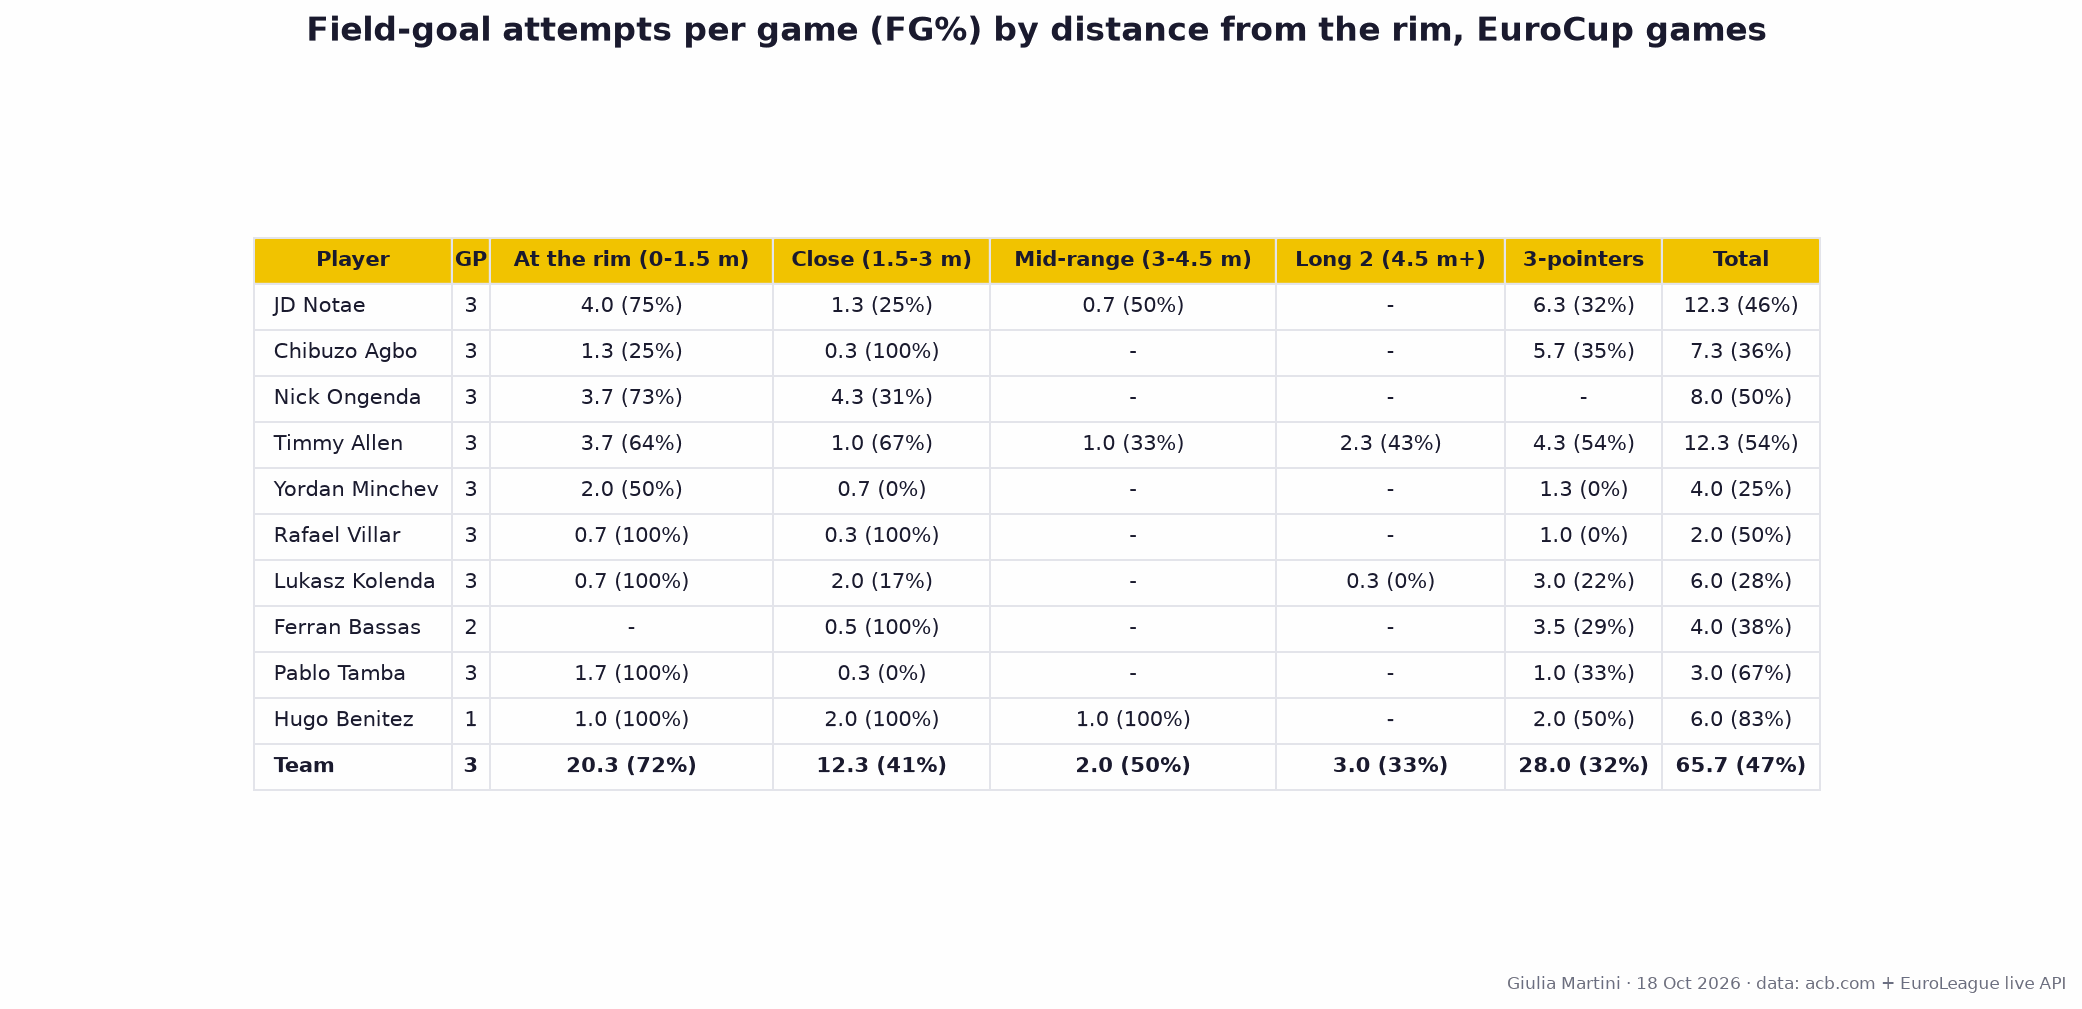
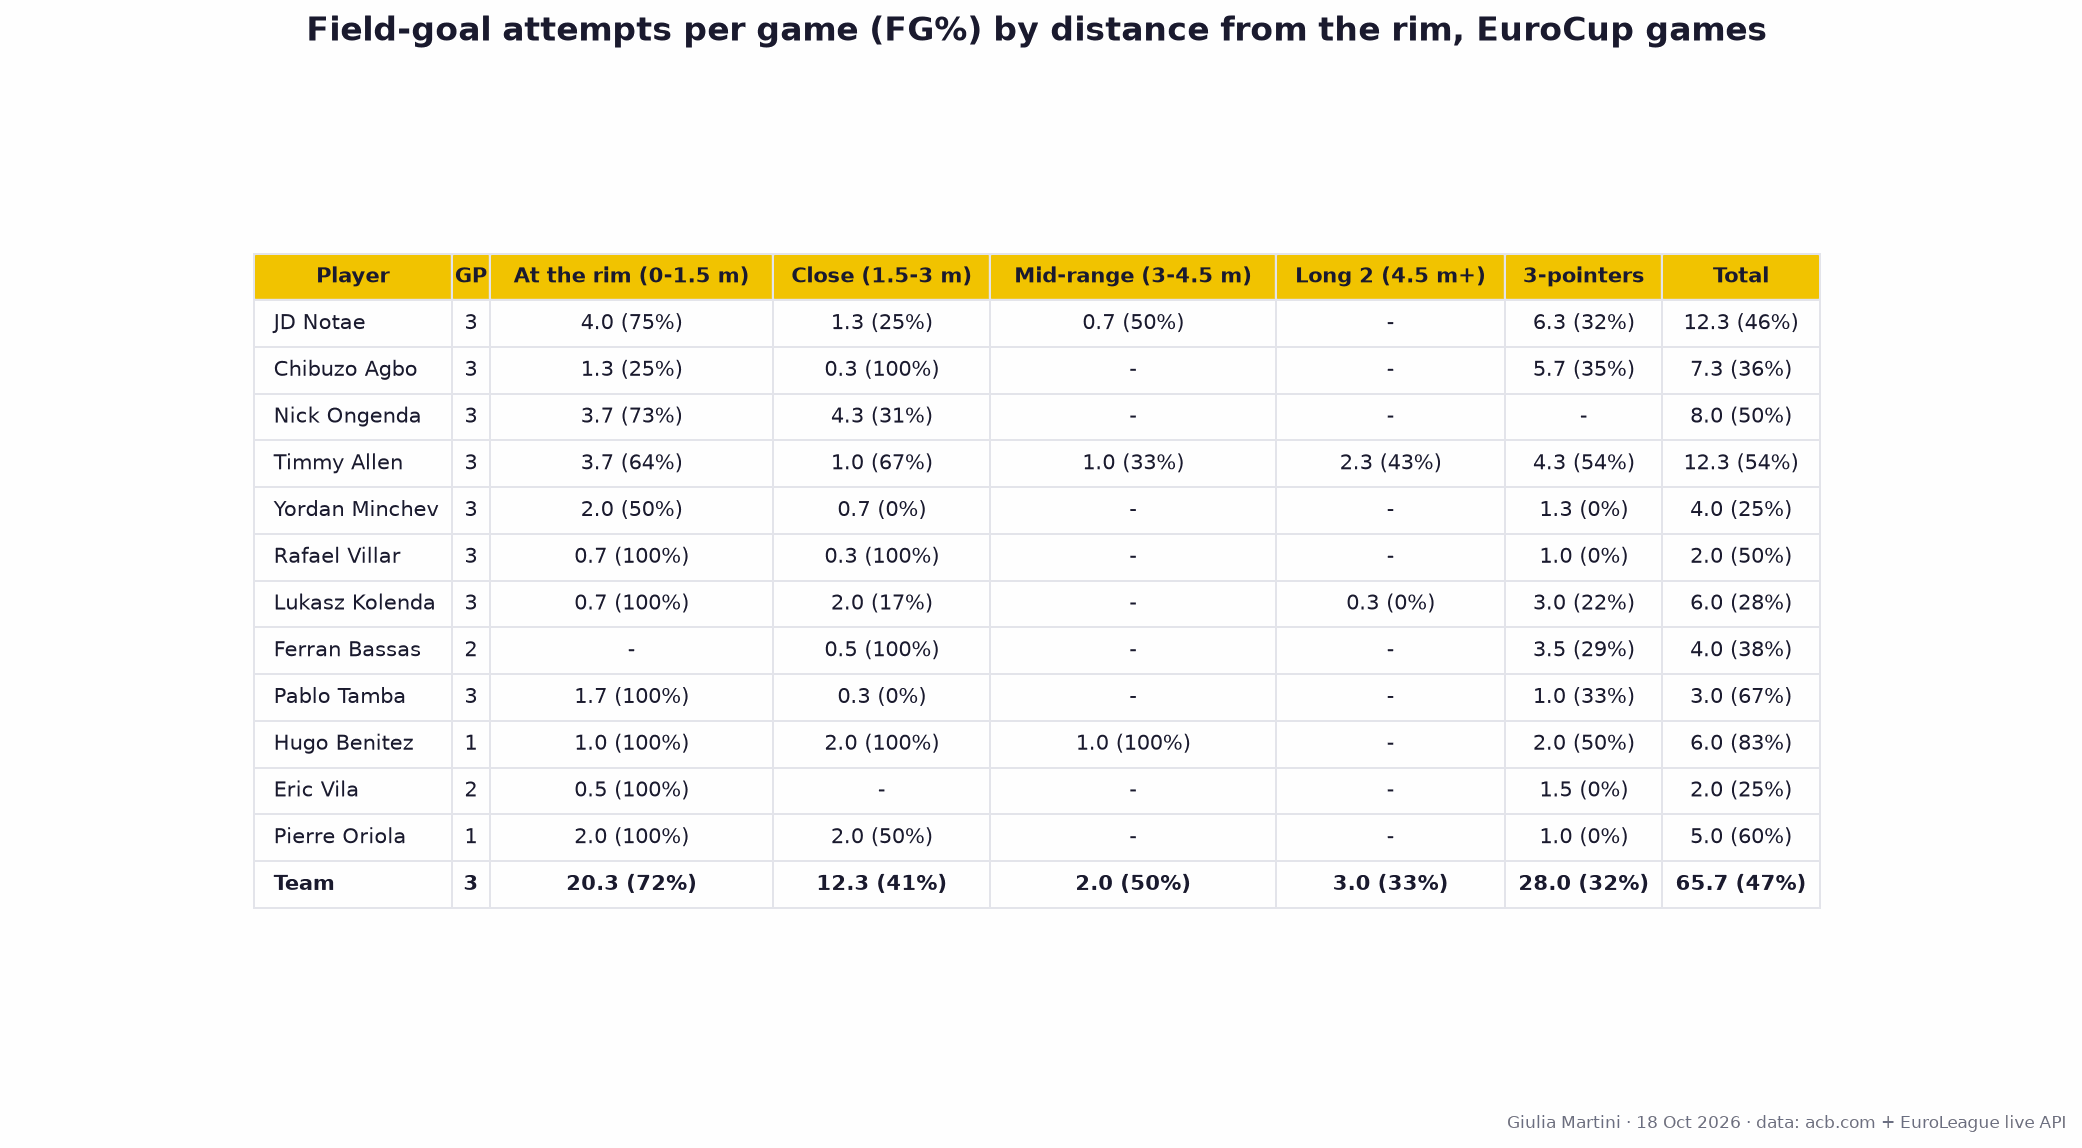
Manresa report: extend rotation table to top 12 by minutes (adds Vila and Oriola)

diff --git a/notebooks/manresa_report.py b/notebooks/manresa_report.py
@@ -24,7 +24,7 @@ from manresa_fetch import player_key
 
 ROOT = Path(__file__).resolve().parent.parent
 DATA = ROOT / "data" / "manresa"
-TOP_N = 10
+TOP_N = 12
 MIN_UNIT_SECS = 180
 ROLE_EN = {"Base": "PG", "Escolta": "SG", "Alero": "SF", "Ala-pívot": "PF", "Pívot": "C"}
 POS_EN = {"Guard": "G", "Forward": "F", "Center": "C"}
@@ -135,8 +135,8 @@ def fig_players(table: pd.DataFrame, out: Path) -> Path:
             cell._loc = "left"
             cell.set_text_props(ha="left")
     tab.auto_set_column_width(range(len(cols)))
-    fig.suptitle("Kids&Us Manresa: top 10 by minutes, Liga Endesa + EuroCup 2026/27", **SUP_KW)
-    path = out / "01_top10_players.png"
+    fig.suptitle(f"Kids&Us Manresa: top {TOP_N} by minutes, Liga Endesa + EuroCup 2026/27", **SUP_KW)
+    path = out / "01_top_players.png"
     save_fig(fig, path)
     plt.close(fig)
     return path
@@ -442,7 +442,7 @@ def extra_sections(starters: pd.DataFrame, assists: pd.DataFrame, matrix: pd.Dat
                    per_game: pd.DataFrame, ts: pd.DataFrame) -> list[str]:
     """README lines for starting fives, assist matrix, shot distances and shot charts."""
     L = ["## Starting fives and absences", "", "![starting fives](00_starting_fives.png)", "",
-         "Gold = starter (S, minutes), grey = bench minutes, red = rotation player (top 10 by minutes) "
+         "Gold = starter (S, minutes), grey = bench minutes, red = rotation player (top 12 by minutes) "
          "not on the game sheet (injury, rest or selection: the reason is not in the data).", "",
          "| Date | Comp | Opponent | H/A | Score | Starters | Out |", "|---|---|---|---|---|---|---|"]
     L += [f"| {r.date} | {r.comp} | {r.opponent} | {r.home} | {r.score} | {r.starters} | "
@@ -467,7 +467,7 @@ def extra_sections(starters: pd.DataFrame, assists: pd.DataFrame, matrix: pd.Dat
                  for n in dist.columns.get_level_values(0).unique()]
         L.append(f"| {label} | " + " | ".join(cells) + " |")
     L += ["", "### Attempts per game (FG%) by player", "", "![per game](05_shots_per_game.png)", "",
-          "Top 10 by minutes; attempts per EuroCup game played, FG% in brackets.", "",
+          "Top 12 by minutes; attempts per EuroCup game played, FG% in brackets.", "",
           "| Player | " + " | ".join(per_game.columns) + " |", "|---|" + "---|" * len(per_game.columns)]
     L += [f"| {name} | " + " | ".join(str(v) for v in row) + " |" for name, row in per_game.iterrows()]
     L += ["", "## True Shooting and PIR", "", "![ts pir](06_ts_pir.png)", "",
@@ -496,7 +496,7 @@ def write_readme(out: Path, title_date: str, games: pd.DataFrame, table: pd.Data
     L += ["", "## Results", "", "| Comp | Opponent | H/A | Score |", "|---|---|---|---|"]
     for r in games.itertuples():
         L.append(f"| {r.comp} | {r.opponent} | {'H' if r.home else 'A'} | {r.man_pts}-{r.opp_pts} |")
-    L += ["", "## Top 10 by total minutes", "", "![top 10](01_top10_players.png)", "",
+    L += ["", "## Top 12 by total minutes", "", "![top players](01_top_players.png)", "",
           "Height in cm (EuroLeague roster), position from ACB role / EuroLeague roster. "
           "PPG split: Liga Endesa / EuroCup.", ""]
     for r in table.itertuples():

diff --git a/reports/matchup_Kids_Us_Manresa_scouting_before_2026-10-18/README.md b/reports/matchup_Kids_Us_Manresa_scouting_before_2026-10-18/README.md
@@ -24,9 +24,9 @@
 | EuroCup | Ratiopharm Ulm | H | 101-89 |
 | EuroCup | Bahcesehir College Istanbul | A | 88-100 |
 
-## Top 10 by total minutes
+## Top 12 by total minutes
 
-![top 10](01_top10_players.png)
+![top players](01_top_players.png)
 
 Height in cm (EuroLeague roster), position from ACB role / EuroLeague roster. PPG split: Liga Endesa / EuroCup.
 
@@ -40,6 +40,8 @@ Height in cm (EuroLeague roster), position from ACB role / EuroLeague roster. PP
 - **Ferran Bassas** (PG, 181 cm, 6 GP): 19.0 min, **3.7 pts**, 2.0 reb, 4.5 ast, FG 24% / 3P 16% / FT 78%; PPG 1.8 ACB / 7.5 EC. Main creator.
 - **Pablo Tamba** (SF, 200 cm, 7 GP): 13.1 min, **4.7 pts**, 2.6 reb, 0.6 ast, FG 68% / 3P 33% / FT 42%; PPG 4.5 ACB / 5.0 EC. Role player.
 - **Hugo Benitez** (PG, 192 cm, 4 GP): 19.2 min, **8.2 pts**, 1.5 reb, 4.0 ast, FG 54% / 3P 17% / FT 50%; PPG 7.3 ACB / 11.0 EC. Main creator, weak at the line (50%).
+- **Eric Vila** (PF, 209 cm, 5 GP): 12.2 min, **1.8 pts**, 2.6 reb, 0.6 ast, FG 21% / 3P 0% / FT 75%; PPG 1.7 ACB / 2.0 EC. Role player.
+- **Pierre Oriola** (C, 208 cm, 3 GP): 19.6 min, **12.0 pts**, 6.0 reb, 0.7 ast, FG 50% / 3P 0% / FT 70%; PPG 11.5 ACB / 13.0 EC. Rebounder.
 
 ## Lineups
 
@@ -75,16 +77,16 @@ Five-man units rebuilt from substitutions, both competitions combined; best/wors
 
 ![starting fives](00_starting_fives.png)
 
-Gold = starter (S, minutes), grey = bench minutes, red = rotation player (top 10 by minutes) not on the game sheet (injury, rest or selection: the reason is not in the data).
+Gold = starter (S, minutes), grey = bench minutes, red = rotation player (top 12 by minutes) not on the game sheet (injury, rest or selection: the reason is not in the data).
 
 | Date | Comp | Opponent | H/A | Score | Starters | Out |
 |---|---|---|---|---|---|---|
-| 2026-09-26 | Liga Endesa | Surne Bilbao | A | 92-107 | Agbo / Benitez / Notae / Ongenda / Tamba | **Timmy Allen** |
-| 2026-09-30 | EuroCup | Paok Thessaloniki | A | 78-93 | Agbo / Allen / Notae / Ongenda / Villar | **Hugo Benitez** |
-| 2026-10-03 | Liga Endesa | Río Breogán | H | 95-101 | Agbo / Allen / Notae / Ongenda / Villar | **Hugo Benitez** |
-| 2026-10-07 | EuroCup | Ratiopharm Ulm | H | 101-89 | Agbo / Allen / Notae / Ongenda / Villar | **Hugo Benitez** |
-| 2026-10-11 | Liga Endesa | Real Madrid | A | 83-120 | Agbo / Minchev / Notae / Oriola / Villar | - |
-| 2026-10-13 | EuroCup | Bahcesehir College Istanbul | A | 88-100 | Agbo / Allen / Benitez / Notae / Ongenda | **Ferran Bassas** |
+| 2026-09-26 | Liga Endesa | Surne Bilbao | A | 92-107 | Agbo / Benitez / Notae / Ongenda / Tamba | **Timmy Allen, Pierre Oriola** |
+| 2026-09-30 | EuroCup | Paok Thessaloniki | A | 78-93 | Agbo / Allen / Notae / Ongenda / Villar | **Hugo Benitez, Pierre Oriola** |
+| 2026-10-03 | Liga Endesa | Río Breogán | H | 95-101 | Agbo / Allen / Notae / Ongenda / Villar | **Hugo Benitez, Pierre Oriola** |
+| 2026-10-07 | EuroCup | Ratiopharm Ulm | H | 101-89 | Agbo / Allen / Notae / Ongenda / Villar | **Hugo Benitez, Pierre Oriola** |
+| 2026-10-11 | Liga Endesa | Real Madrid | A | 83-120 | Agbo / Minchev / Notae / Oriola / Villar | **Eric Vila** |
+| 2026-10-13 | EuroCup | Bahcesehir College Istanbul | A | 88-100 | Agbo / Allen / Benitez / Notae / Ongenda | **Ferran Bassas, Eric Vila** |
 | 2026-10-17 | Liga Endesa | Unicaja | H | 72-84 | Agbo / Benitez / Minchev / Notae / Ongenda | **Timmy Allen, Rafael Villar, Lukasz Kolenda** |
 
 5 different starting fives in 7 games; the most used (3 games): Agbo / Allen / Notae / Ongenda / Villar.
@@ -121,7 +123,7 @@ EuroCup games only (3 games, 197 attempts): ACB does not publish shot locations.
 
 ![per game](05_shots_per_game.png)
 
-Top 10 by minutes; attempts per EuroCup game played, FG% in brackets.
+Top 12 by minutes; attempts per EuroCup game played, FG% in brackets.
 
 | Player | GP | At the rim (0-1.5 m) | Close (1.5-3 m) | Mid-range (3-4.5 m) | Long 2 (4.5 m+) | 3-pointers | Total |
 |---|---|---|---|---|---|---|---|
@@ -135,6 +137,8 @@ Top 10 by minutes; attempts per EuroCup game played, FG% in brackets.
 | Ferran Bassas | 2 | - | 0.5 (100%) | - | - | 3.5 (29%) | 4.0 (38%) |
 | Pablo Tamba | 3 | 1.7 (100%) | 0.3 (0%) | - | - | 1.0 (33%) | 3.0 (67%) |
 | Hugo Benitez | 1 | 1.0 (100%) | 2.0 (100%) | 1.0 (100%) | - | 2.0 (50%) | 6.0 (83%) |
+| Eric Vila | 2 | 0.5 (100%) | - | - | - | 1.5 (0%) | 2.0 (25%) |
+| Pierre Oriola | 1 | 2.0 (100%) | 2.0 (50%) | - | - | 1.0 (0%) | 5.0 (60%) |
 | Team | 3 | 20.3 (72%) | 12.3 (41%) | 2.0 (50%) | 3.0 (33%) | 28.0 (32%) | 65.7 (47%) |
 
 ## True Shooting and PIR
